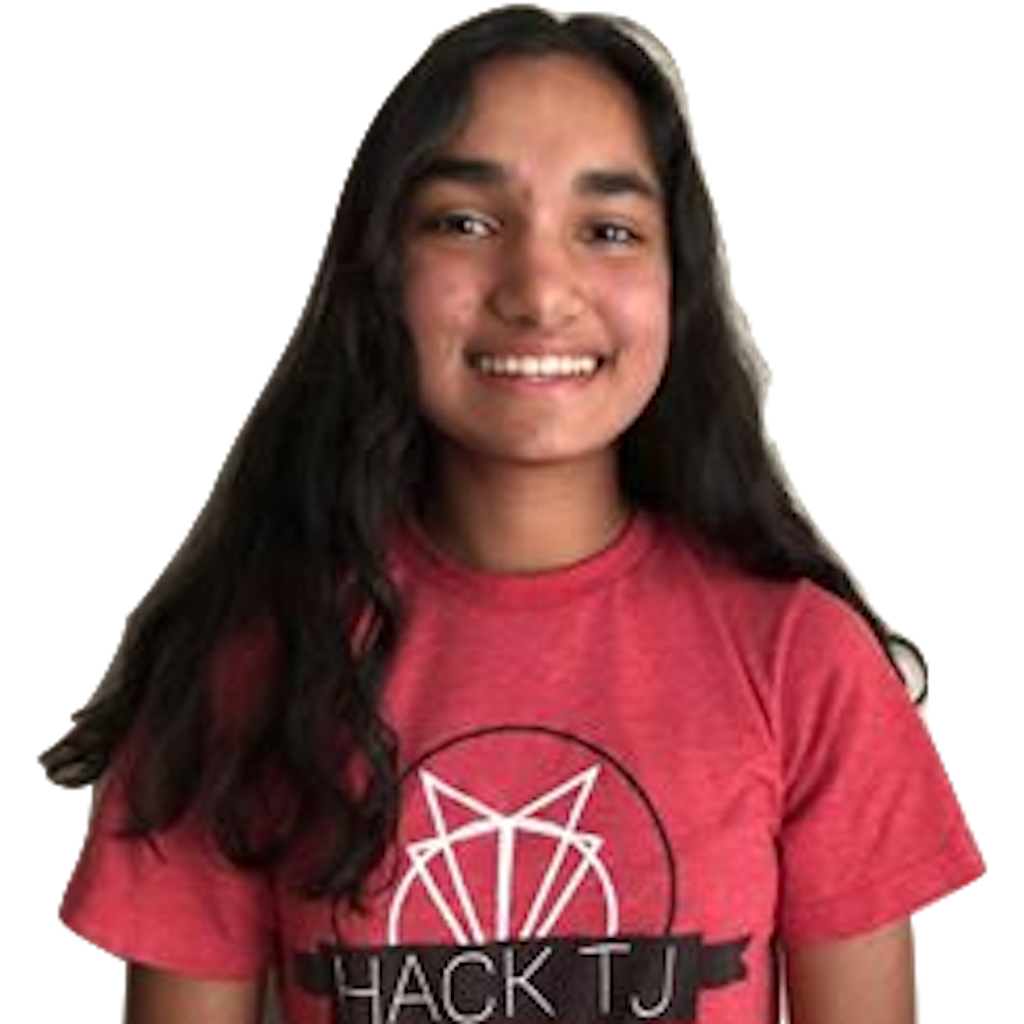
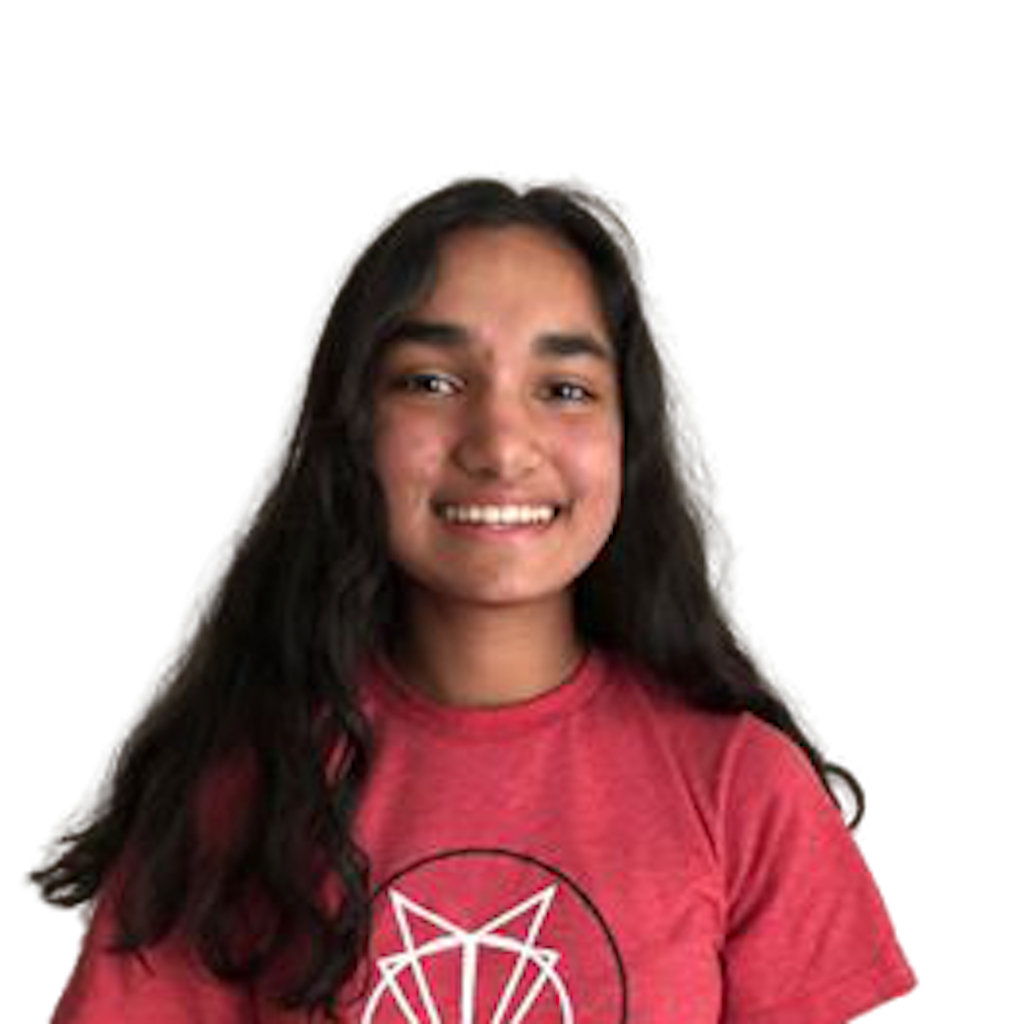
Update pictures - Add Forrest - Remove Ms. Mills - Fix background removal for all team members

diff --git a/src/MainPage/Team/index.tsx b/src/MainPage/Team/index.tsx
@@ -38,7 +38,7 @@ const Team = (): JSX.Element => (
               name: "Forrest Meng",
               about:
                 "Forrest is a senior and serves as a sponsorship coordinator and maintains DevPost for HackTJ 7.5. He became interested in organizing HackTJ after participating in the hackathon for two years. Being interested in robotics and AI, Forrest is interested in how to spread STEM education and technology into everyday life, so he serves as part of the BranchOut! STEM Education Program management team. Besides interests in engineering and programming, Forrest also is a member of TJ’s Model UN team, a yearbook photographer, a school newspaper staff writer, and participates in the FIRST Tech Challenge.",
-              /* image: {require('../../images/team/ForrestMeng.png')} */
+              image: require("../../images/team/ForrestMeng.png"),
             },
             {
               name: "Tammy Ding",
@@ -117,12 +117,6 @@ const Team = (): JSX.Element => (
               about:
                 "Ms. Razzino is a Math Teacher at TJ and also one of the faculty sponsors of HackTJ 7.5. She was the Division Manager for Math and Computer Science at TJ for 5 years and gained an understanding and appreciation for computer science during that time. She also attended TJ back in the late 1990s and fondly remembers her Foundations of CS class. When not creating tests and grading papers, Ms. Razzino enjoys baking, skiing, travelling, and spending time with family and friends. ",
               image: require("../../images/team/MsRazzino.jpg"),
-            },
-            {
-              name: "Ms. Mills",
-              about:
-                "Ms. Mills is a faculty sponsor for HackTJ 7.5. She teaches Geosystems and Astronomy at TJ, and is also the Lab Director for the Astronomy and Astrophysics senior research lab. She volunteered at HackTJ 6.0. In her free time she enjoys traveling, reading, riding her bike, and spending time with her family and friends.",
-              image: require("../../images/team/MsMills.jpg"),
             },
           ].map((person) => (
             <TeamPicture

diff --git a/src/MainPage/Questions/index.tsx b/src/MainPage/Questions/index.tsx
@@ -51,8 +51,6 @@ const Questions = (): JSX.Element => (
                 </span>
               }
             />
-          </div>
-          <div className="row">
             <FAQuestion
               question="Is there any cost?"
               answer={
@@ -61,6 +59,9 @@ const Questions = (): JSX.Element => (
                 </span>
               }
             />
+          </div>
+          <div className="row">
+
             <FAQuestion
               question="Is there a deadline?"
               answer={
@@ -91,8 +92,6 @@ const Questions = (): JSX.Element => (
                 </span>
               }
             />
-          </div>
-          <div className="row">
             <FAQuestion
               question="Isn&#39;t hacking illegal?"
               answer={
@@ -115,6 +114,8 @@ const Questions = (): JSX.Element => (
                 </span>
               }
             />
+          </div>
+          <div className="row">
             <FAQuestion
               question="What if I don&#39;t know how to code?"
               small
@@ -126,8 +127,6 @@ const Questions = (): JSX.Element => (
                 </span>
               }
             />
-          </div>
-          <div className="row">
             <FAQuestion
               question="What prizes can I win?"
               answer={

diff --git a/src/MainPage/Questions/FAQuestion/index.css b/src/MainPage/Questions/FAQuestion/index.css
@@ -2,7 +2,7 @@ section.faq ul.faq-container li.question-group {
   box-sizing: border-box;
   float: left;
   margin-bottom: 0;
-  width: 33.33333%;
+  width: 25%;
   padding-left: 10px;
   padding-right: 10px;
   list-style: none;

diff --git a/src/MainPage/Landing/index.css b/src/MainPage/Landing/index.css
@@ -141,6 +141,8 @@ section.hero .event-location.event-location {
 }
 
 section.hero .event-container {
+  margin: auto;
+  width: 50%;
   background-color: rgba(255, 255, 255, 0.6);
   padding: 1rem;
   border-radius: 10px;

diff --git a/src/MainPage/Team/TeamPicture/index.css b/src/MainPage/Team/TeamPicture/index.css
@@ -44,7 +44,7 @@ section.team li.question-group {
   box-sizing: border-box;
   float: left;
   margin-bottom: 0;
-  width: 33.33333%;
+  width: 25%;
   padding-left: 10px;
   padding-right: 10px;
 }

diff --git a/src/index.css b/src/index.css
@@ -1645,7 +1645,7 @@ section .container {
   display: block;
   position: relative;
   margin: auto auto;
-  max-width: 700px;
+  max-width: 80%;
 }
 
 @media only screen and (max-width: 640px) {

diff --git a/src/MainPage/Sponsors/index.css b/src/MainPage/Sponsors/index.css
@@ -1,6 +1,5 @@
 .animation-container.horizontal.sponsors {
-  max-width: 850px;
-  left: 25px;
+  max-width: 70%;
 }
 
 @media only screen and (max-width: 640px) {

diff --git a/src/MainPage/Questions/index.css b/src/MainPage/Questions/index.css
@@ -4,7 +4,7 @@ section.faq {
 }
 
 section.faq .container {
-  max-width: 900px;
+  max-width: 80%;
   padding: 1rem;
   box-sizing: border-box;
 }

diff --git a/src/MainPage/Team/index.css b/src/MainPage/Team/index.css
@@ -1,5 +1,5 @@
 section.team .container {
-  max-width: 800px;
+  max-width: 80%;
 }
 
 section.team .team-pictures {
